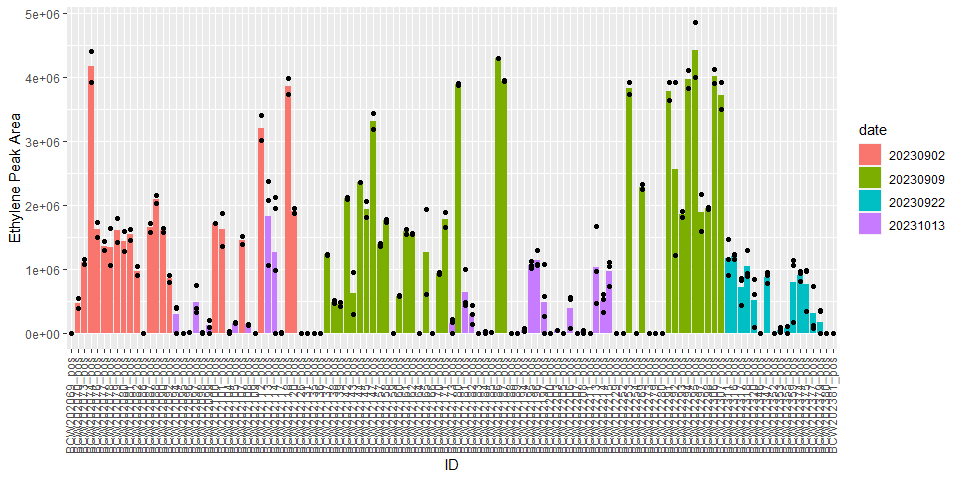
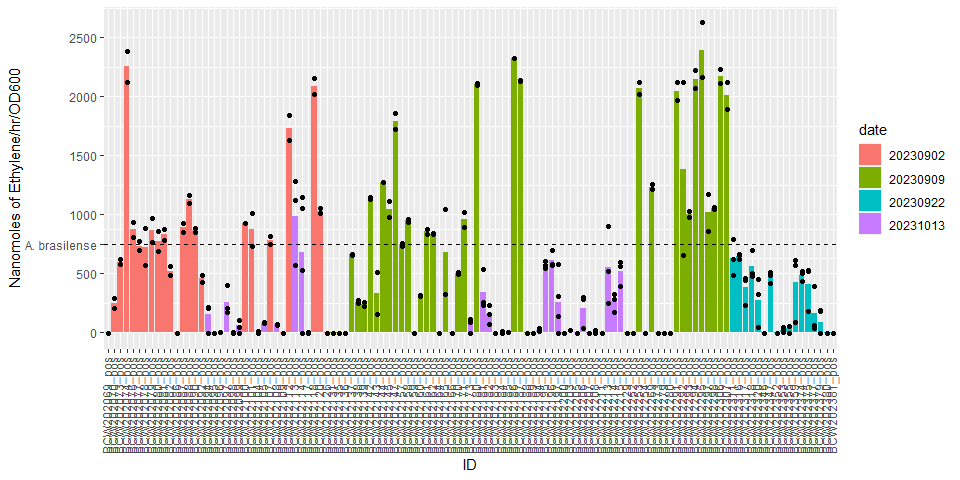
Converted ethylene peak area to nmol ethylene/hr/OD. Added A. brasilense line based on value in Van Deynze 2018 paper.

Changed region(s): [[0.0, 0.0938, 0.875, 1.0], [0.0625, 0.0625, 0.125, 0.0938], [0.0312, 0.0, 0.0625, 0.0625]]

diff --git a/2023_HI-ARA-analysis.html b/2023_HI-ARA-analysis.html
@@ -428,29 +428,47 @@ for i in os.listdir(&quot;data/&quot;):
       toptop = pd.concat([top,toptop], axis=0)
 toptop.reset_index(drop=True,inplace=True)
 pos = toptop[toptop[&quot;ID&quot;].str.contains(&quot;pos&quot;)]
-#len(pos[&quot;date&quot;]==20230909)
 neg = toptop[toptop[&quot;ID&quot;].str.contains(&quot;neg&quot;)]
-#data = pd.read_csv(&quot;data/20230902/20230902_BCW202070_pos_rep1_MS.csv&quot;, header=3)
-#data = data.iloc[:,1:24]
-#data = data[data[&quot;RT&quot;].between(2.55,2.75)]
-#name = &quot;data/20230902/20230902_BCW202070_pos_rep1_MS.csv&quot;.split(&quot;_&quot;,1)[1].replace(&quot;_rep1_MS.csv&quot;,&quot;&quot;).replace(&quot;_rep2_MS.csv&quot;,&quot;&quot;)
-#data.insert(loc=0,column=&quot;ID&quot;,value=name)
-#blank = top[top[&quot;ID&quot;]==&quot;uninoc_pos&quot;][&quot;Area&quot;].mean()
-#top[top[&quot;ID&quot;]!=&quot;uninoc_pos&quot;][&quot;Area&quot;]-blank
 len(pos[&quot;ID&quot;].unique())</code></pre>
 <pre><code>## 117</code></pre>
+<pre class="python"><code># Convert peak area to nmol ethylene.
+pos[&quot;nmol-eth&quot;]=(pos[&quot;Area&quot;]-17690)/383.46</code></pre>
+<pre><code>## &lt;string&gt;:2: SettingWithCopyWarning: 
+## A value is trying to be set on a copy of a slice from a DataFrame.
+## Try using .loc[row_indexer,col_indexer] = value instead
+## 
+## See the caveats in the documentation: https://pandas.pydata.org/pandas-docs/stable/user_guide/indexing.html#returning-a-view-versus-a-copy</code></pre>
+<pre class="python"><code># We&#39;re assuming 48hr incubation for all. There are slight variations (+-2hr). Can correct in the future.
+pos[&quot;nmol-eth/hr/OD&quot;]=(pos[&quot;nmol-eth&quot;]/48/0.1)</code></pre>
+<pre><code>## &lt;string&gt;:2: SettingWithCopyWarning: 
+## A value is trying to be set on a copy of a slice from a DataFrame.
+## Try using .loc[row_indexer,col_indexer] = value instead
+## 
+## See the caveats in the documentation: https://pandas.pydata.org/pandas-docs/stable/user_guide/indexing.html#returning-a-view-versus-a-copy</code></pre>
+<pre class="python"><code>
+
+#meta=pd.read_csv(&quot;data/2022-06-30_molokai-isolate-catalog - Copy.csv&quot;)
+#meta=meta.iloc[:-1,:]
+#toton=meta[meta[&quot;Sample Type &quot;].str.contains(&quot;Totontepec&quot;)]
+#len(toton)
+#toton[&quot;BCW_ID&quot;]=toton[&quot;BCW_ID&quot;].str.replace(&quot;BCW_&quot;,&quot;BCW&quot;)
+#len(set([i for i in pos[&quot;ID&quot;] if i.replace(&quot;_pos&quot;,&quot;&quot;) not in toton[&quot;BCW_ID&quot;].to_list()]))
+#len(pos[&quot;ID&quot;].unique())</code></pre>
 <pre class="r"><code>data = py$pos
 
-ggplot(data=data, aes(x=ID, y=Area)) +
+ggplot(data=data, aes(x=ID, y=`nmol-eth/hr/OD`)) +
   geom_bar(stat=&quot;summary&quot;,fun=&quot;mean&quot;, aes(fill=date)) + 
   geom_point() +
-  ylab(&quot;Ethylene Peak Area&quot;) +
+  geom_hline(yintercept=750,linetype=&quot;dashed&quot;)+
+  scale_y_continuous(breaks=c(0,500,750,1000,1500,2000,2500),labels=c(0,500,&quot;A. brasilense&quot;,1000,1500,2000,2500)) +
+  #annotate(&quot;text&quot;,x=100,y=750,label=&quot;A. brasilense (Van Deynze et. al 2018)&quot;) +
+  ylab(&quot;Nanomoles of Ethylene/hr/OD600&quot;) +
   theme(axis.text.x = element_text(angle=90, vjust=0.3))</code></pre>
[2 lines of base64/hex data omitted]
 <pre class="r"><code># Simple filter to remove small values.
-ggplot(data=filter(data,Area&gt;10000), aes(x=date,y=Area)) +
+ggplot(data=filter(data,Area&gt;10000), aes(x=date,y=`nmol-eth/hr/OD`)) +
   geom_boxplot()</code></pre>
[2 lines of base64/hex data omitted]
 </div>
 </div>
 

diff --git a/2023_HI-ARA-analysis.md b/2023_HI-ARA-analysis.md
@@ -84,15 +84,7 @@ for i in os.listdir("data/"):
       toptop = pd.concat([top,toptop], axis=0)
 toptop.reset_index(drop=True,inplace=True)
 pos = toptop[toptop["ID"].str.contains("pos")]
-#len(pos["date"]==20230909)
 neg = toptop[toptop["ID"].str.contains("neg")]
-#data = pd.read_csv("data/20230902/20230902_BCW202070_pos_rep1_MS.csv", header=3)
-#data = data.iloc[:,1:24]
-#data = data[data["RT"].between(2.55,2.75)]
-#name = "data/20230902/20230902_BCW202070_pos_rep1_MS.csv".split("_",1)[1].replace("_rep1_MS.csv","").replace("_rep2_MS.csv","")
-#data.insert(loc=0,column="ID",value=name)
-#blank = top[top["ID"]=="uninoc_pos"]["Area"].mean()
-#top[top["ID"]!="uninoc_pos"]["Area"]-blank
 len(pos["ID"].unique())
 ```
 
@@ -100,14 +92,55 @@ len(pos["ID"].unique())
 ## 117
 ```
 
+```python
+# Convert peak area to nmol ethylene.
+pos["nmol-eth"]=(pos["Area"]-17690)/383.46
+```
+
+```
+## <string>:2: SettingWithCopyWarning: 
+## A value is trying to be set on a copy of a slice from a DataFrame.
+## Try using .loc[row_indexer,col_indexer] = value instead
+## 
+## See the caveats in the documentation: https://pandas.pydata.org/pandas-docs/stable/user_guide/indexing.html#returning-a-view-versus-a-copy
+```
+
+```python
+# We're assuming 48hr incubation for all. There are slight variations (+-2hr). Can correct in the future.
+pos["nmol-eth/hr/OD"]=(pos["nmol-eth"]/48/0.1)
+```
+
+```
+## <string>:2: SettingWithCopyWarning: 
+## A value is trying to be set on a copy of a slice from a DataFrame.
+## Try using .loc[row_indexer,col_indexer] = value instead
+## 
+## See the caveats in the documentation: https://pandas.pydata.org/pandas-docs/stable/user_guide/indexing.html#returning-a-view-versus-a-copy
+```
+
+```python
+
+
+#meta=pd.read_csv("data/2022-06-30_molokai-isolate-catalog - Copy.csv")
+#meta=meta.iloc[:-1,:]
+#toton=meta[meta["Sample Type "].str.contains("Totontepec")]
+#len(toton)
+#toton["BCW_ID"]=toton["BCW_ID"].str.replace("BCW_","BCW")
+#len(set([i for i in pos["ID"] if i.replace("_pos","") not in toton["BCW_ID"].to_list()]))
+#len(pos["ID"].unique())
+```
+
 
 ```r
 data = py$pos
 
-ggplot(data=data, aes(x=ID, y=Area)) +
+ggplot(data=data, aes(x=ID, y=`nmol-eth/hr/OD`)) +
   geom_bar(stat="summary",fun="mean", aes(fill=date)) + 
   geom_point() +
-  ylab("Ethylene Peak Area") +
+  geom_hline(yintercept=750,linetype="dashed")+
+  scale_y_continuous(breaks=c(0,500,750,1000,1500,2000,2500),labels=c(0,500,"A. brasilense",1000,1500,2000,2500)) +
+  #annotate("text",x=100,y=750,label="A. brasilense (Van Deynze et. al 2018)") +
+  ylab("Nanomoles of Ethylene/hr/OD600") +
   theme(axis.text.x = element_text(angle=90, vjust=0.3))
 ```
 
@@ -115,7 +148,7 @@ ggplot(data=data, aes(x=ID, y=Area)) +
 
 ```r
 # Simple filter to remove small values.
-ggplot(data=filter(data,Area>10000), aes(x=date,y=Area)) +
+ggplot(data=filter(data,Area>10000), aes(x=date,y=`nmol-eth/hr/OD`)) +
   geom_boxplot()
 ```
 
